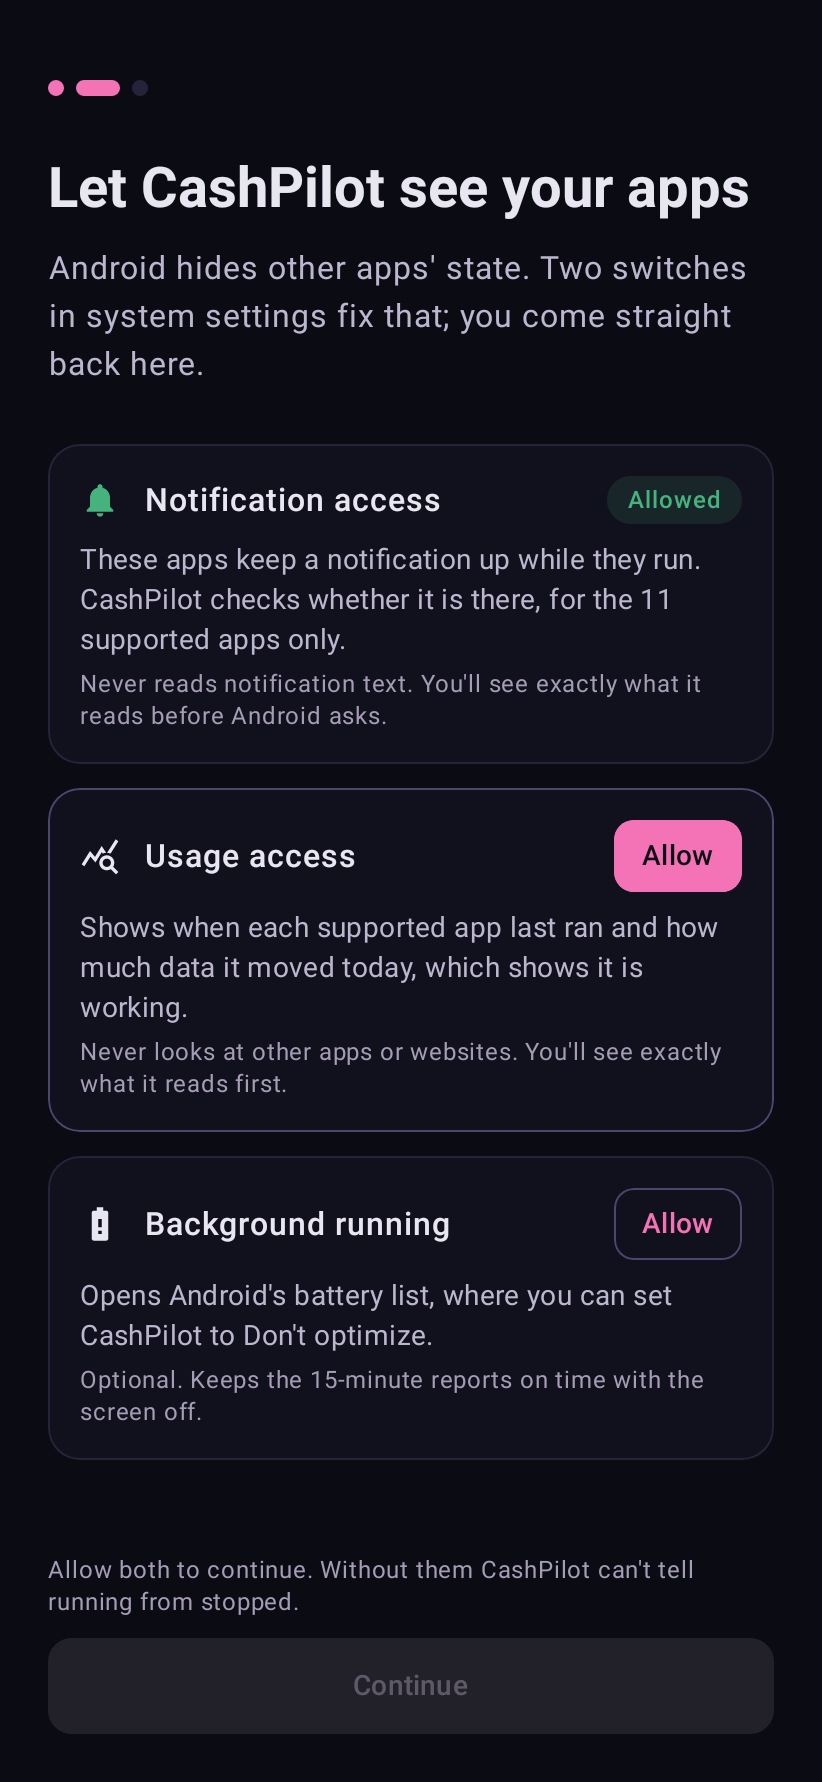
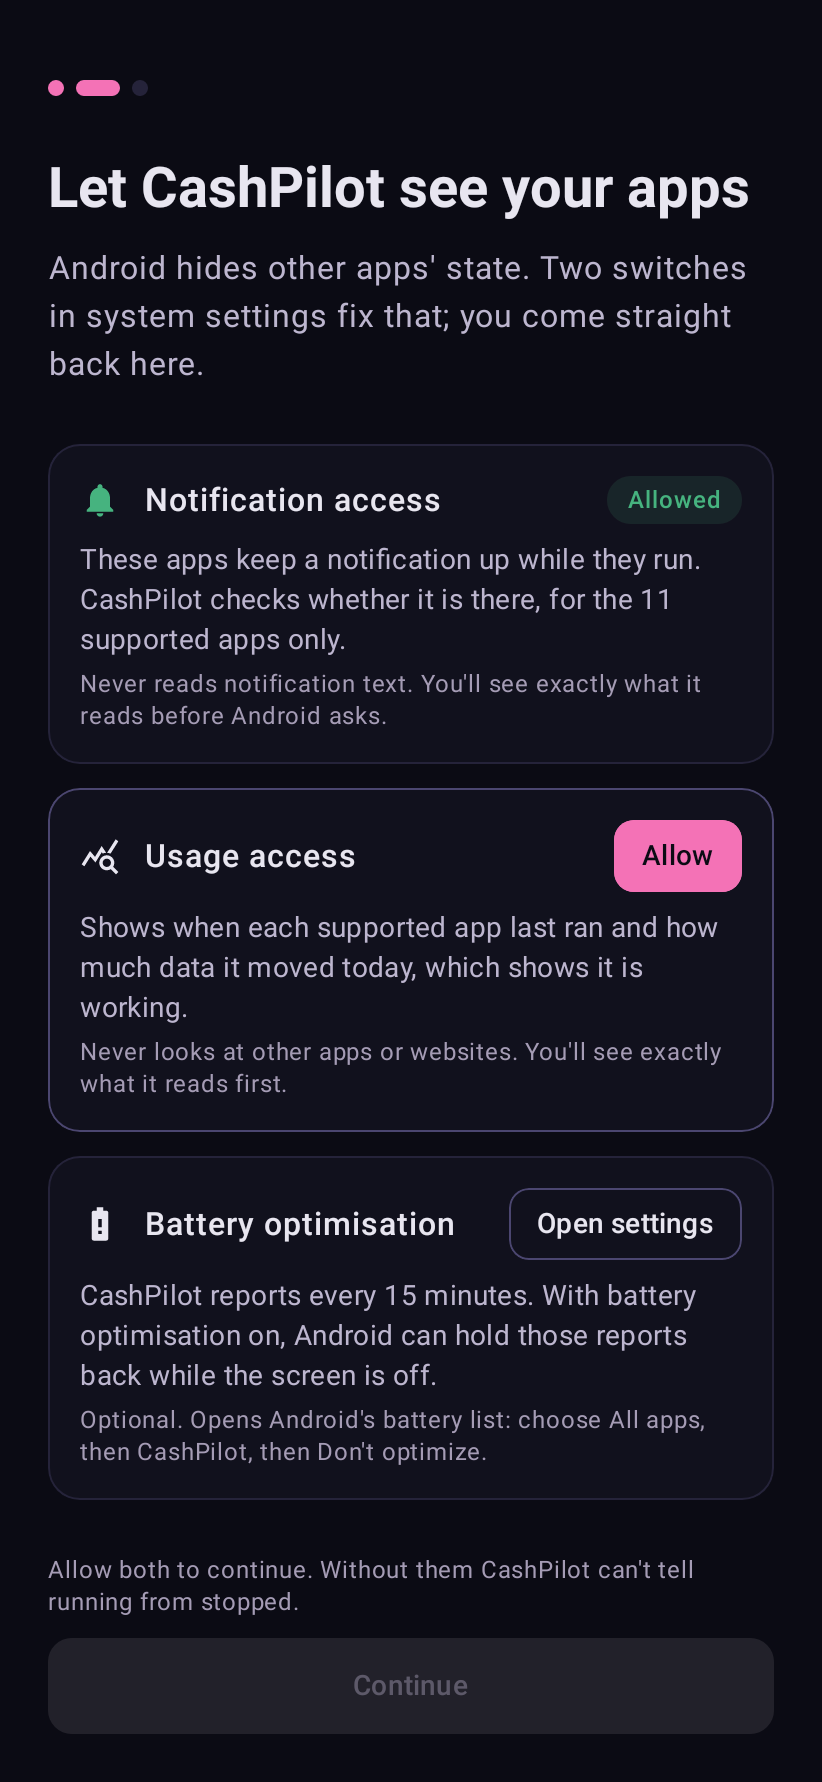
design: battery card opens the settings list instead of asking for an exemption

Changed region(s): [[0.0912, 0.679, 0.882, 0.8333]]

diff --git a/app/src/test/java/com/cashpilot/android/redesign/Common.kt b/app/src/test/java/com/cashpilot/android/redesign/Common.kt
@@ -98,9 +98,12 @@ private fun PermissionCard(icon: Int, title: String, why: String, notRead: Strin
             Spacer(Modifier.width(12.dp))
             Text(title, fontWeight = FontWeight.SemiBold, modifier = Modifier.weight(1f))
             when {
-                granted -> Pill("Allowed", c.ok, c.okSoft)
+                granted -> Pill(if (required) "Allowed" else "Done", c.ok, c.okSoft)
                 required -> SmallAction("Allow", filled = true)
-                else -> SmallAction("Allow")
+                // Optional, and not a permission: it only opens Android's
+                // battery settings list. No exemption dialog, so the button
+                // never reads as "Allow".
+                else -> SmallAction("Open settings", color = c.text)
             }
         }
         Gap(8)
@@ -136,9 +139,9 @@ fun OnboardPermissions(notif: Boolean, usage: Boolean, battery: Boolean) = Onboa
         "Never looks at other apps or websites. You'll see exactly what it reads first.", usage, required = true,
     )
     PermissionCard(
-        R.drawable.ic_battery_alert, "Background running",
-        "Opens Android's battery list, where you can set CashPilot to Don't optimize.",
-        "Optional. Keeps the 15-minute reports on time with the screen off.", battery, required = false,
+        R.drawable.ic_battery_alert, "Battery optimisation",
+        "CashPilot reports every 15 minutes. With battery optimisation on, Android can hold those reports back while the screen is off.",
+        "Optional. Opens Android's battery list: choose All apps, then CashPilot, then Don't optimize.", battery, required = false,
     )
 }
 
